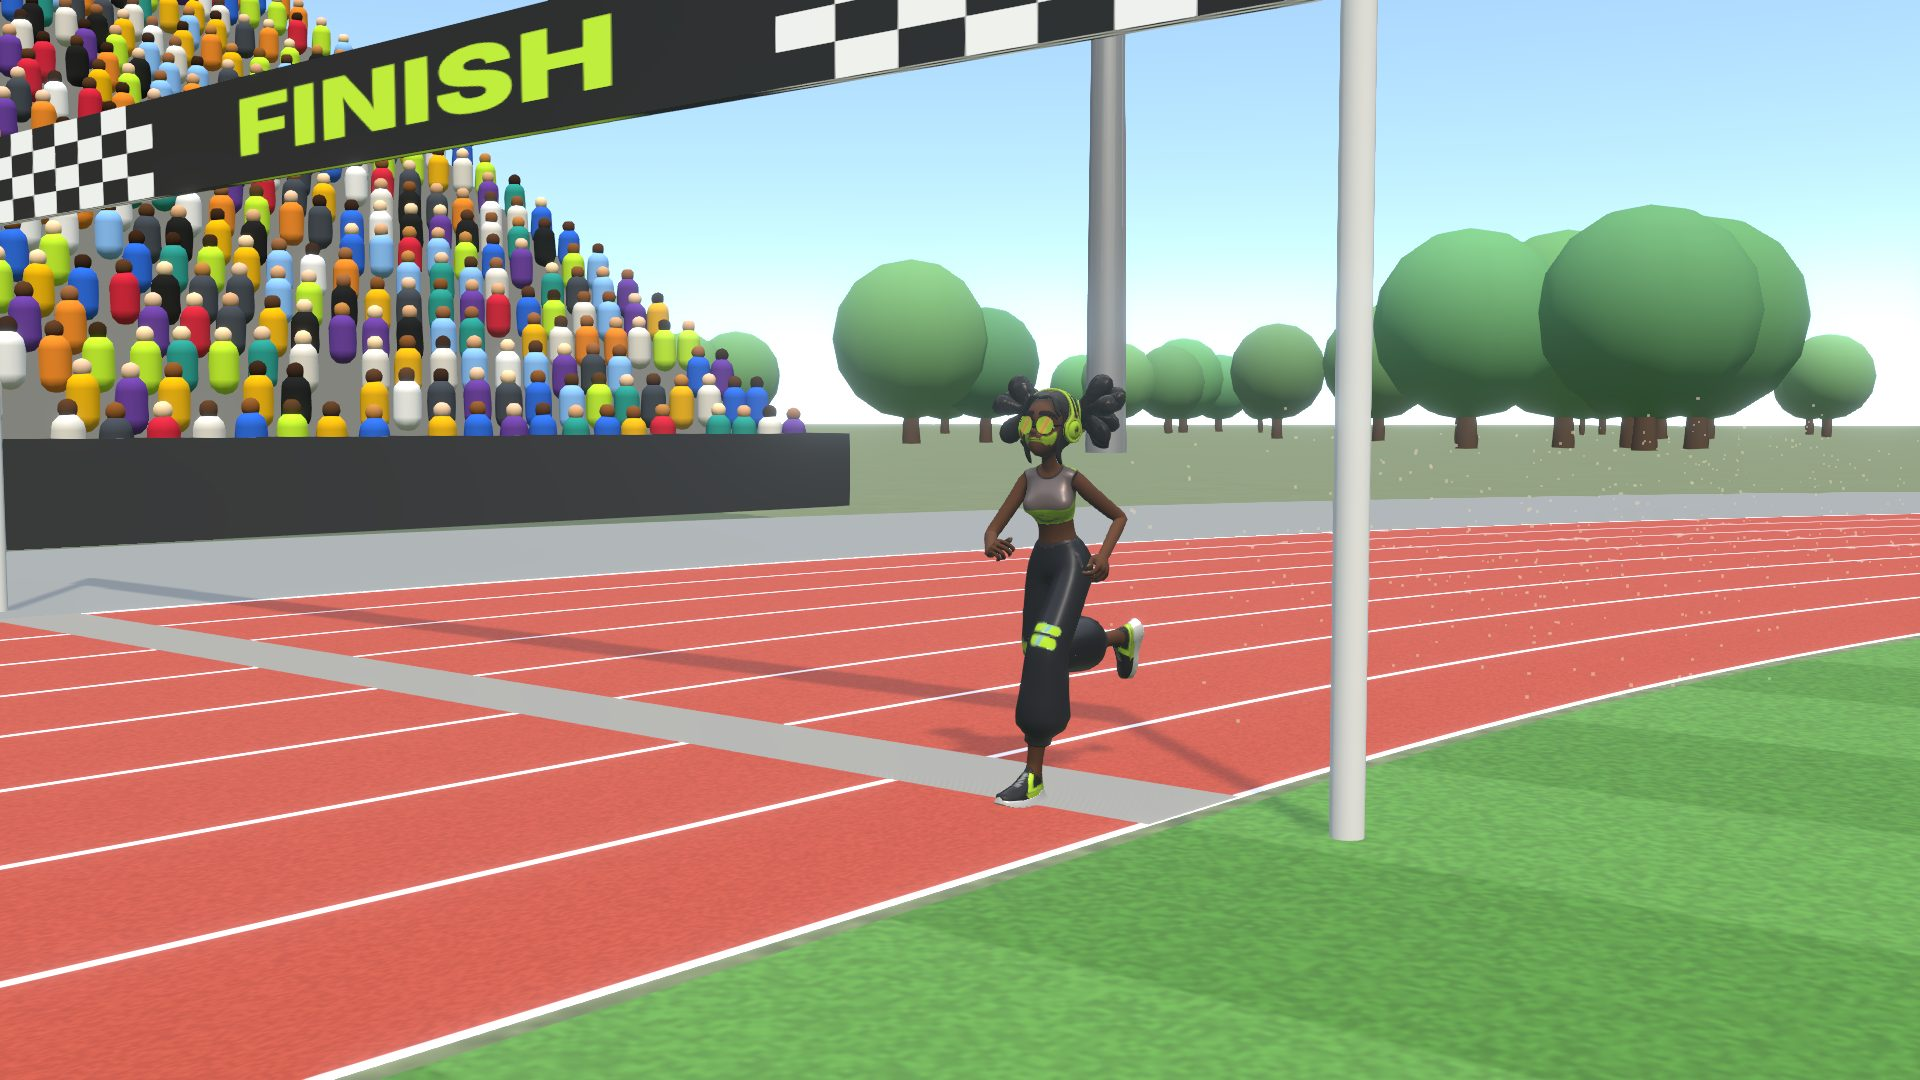
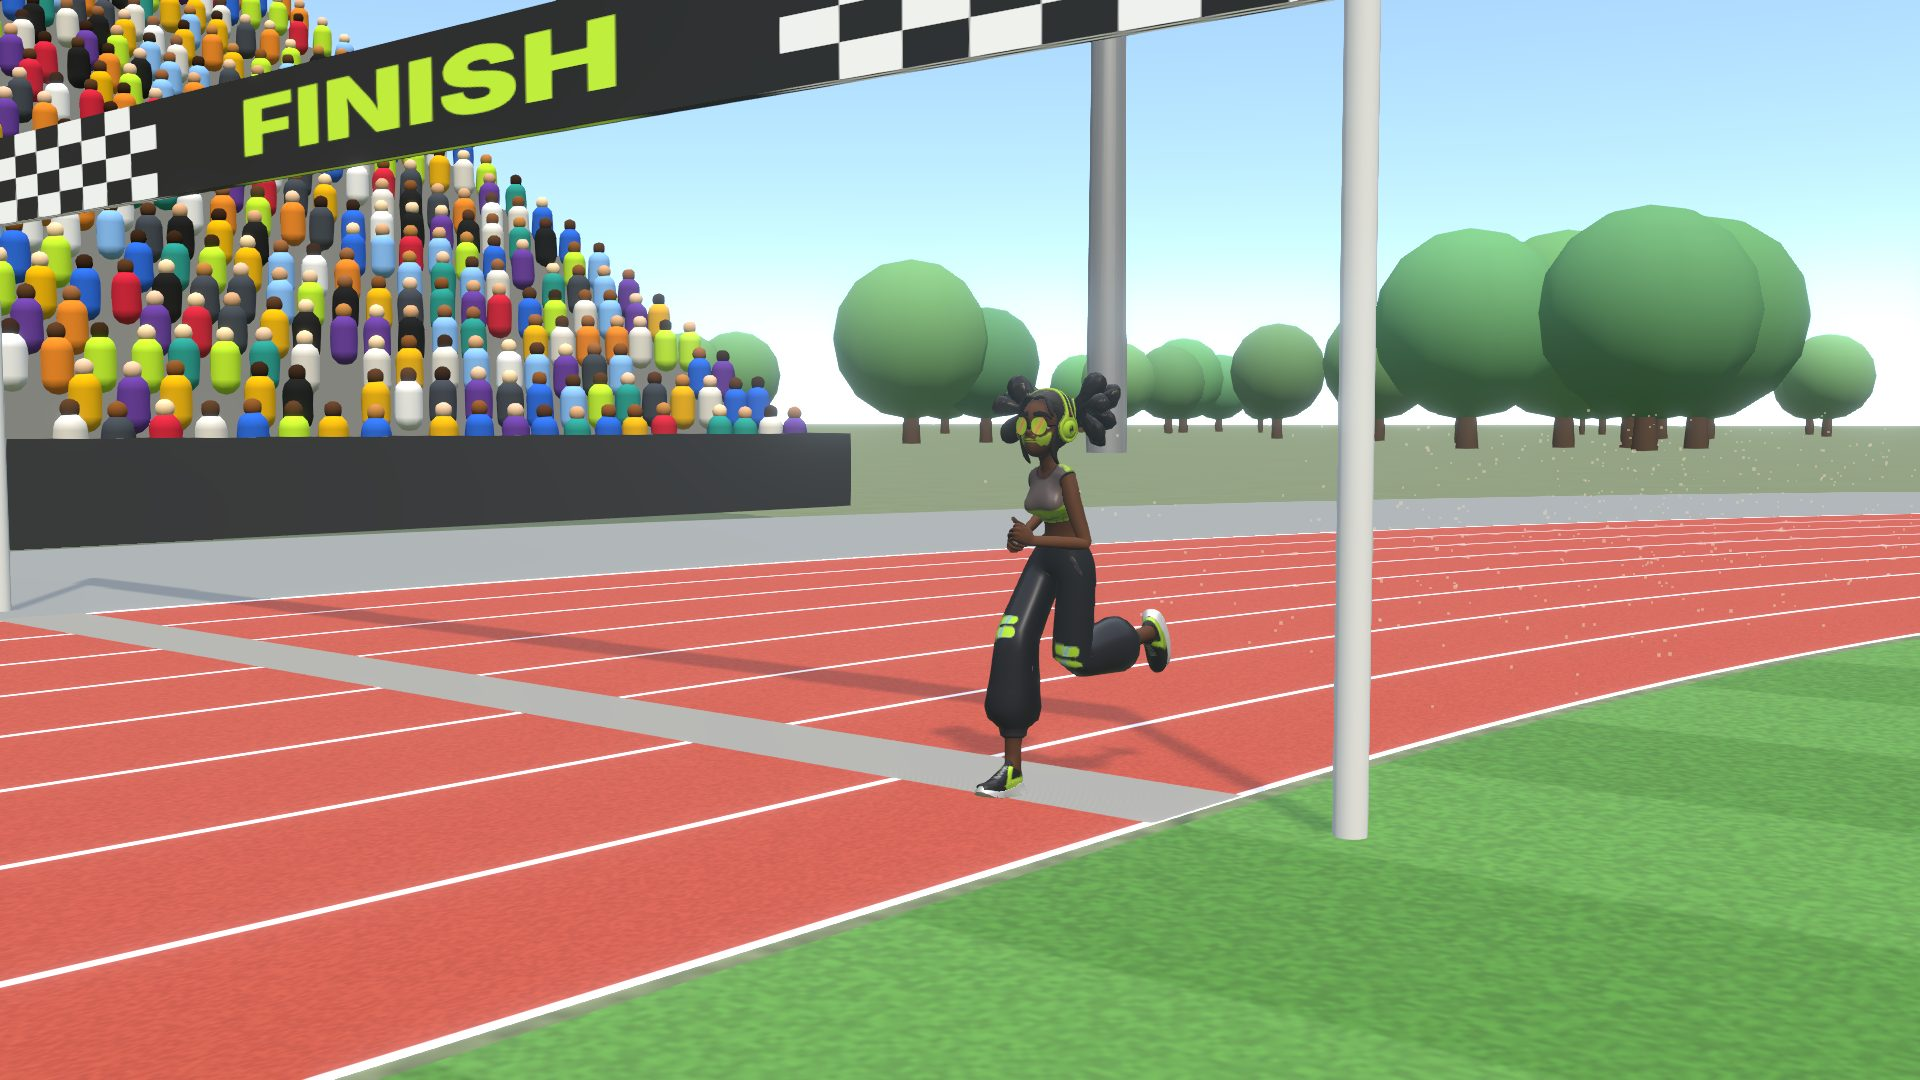
Run between slides at track level, widen the bone view, hold still for the X-ray
- Replace the satellite lift with a chase camera that pulls back a little
  while she runs to the next slide's marker.
- Pull the bone-view camera out so more of the trabecular network is in frame.
- Freeze her pose and position while the X-ray labels are on screen so the
  labels stay put; she runs again as the camera dives to the femoral neck.
- Regenerate fallback frames; update README.

Claude-Session: https://claude.ai/code/session_013wEus8odJJj21jAkR9Y85n

diff --git a/components/three/StoryCanvas.tsx b/components/three/StoryCanvas.tsx
@@ -21,7 +21,7 @@ const VIEWS = {
   front: { pos: V(-2.4, 1.3, 3.9), tgt: V(0, 0.95, 0) },
   chase: { pos: V(1.7, 2.1, -5.2), tgt: V(0, 1.0, 2.8) },
   finish: { pos: V(-4.0, 1.4, 4.8), tgt: V(0.3, 0.95, -0.3) },
-  satellite: { pos: V(0, 230, -0.4), tgt: V(0, 0, 0.3) },
+  wide: { pos: V(2.6, 2.9, -7.8), tgt: V(0, 1.0, 3.2) }, // pulled back while she runs between slides
 };
 const HAZE = new THREE.Color("#d3dbe6");
 const DARK = new THREE.Color("#141416");
@@ -33,7 +33,6 @@ function CameraRig() {
   const wasMicro = useRef(false);
   const a = useMemo(() => new THREE.Vector3(), []);
   const b = useMemo(() => new THREE.Vector3(), []);
-  const fwd = useMemo(() => new THREE.Vector3(), []);
 
   useFrame((_, dt) => {
     camera.layers.enable(1);
@@ -51,7 +50,7 @@ function CameraRig() {
       micro = s.micro;
       if (micro) {
         const ang = 0.6 + sp * 2.4;
-        const R = 6.4 - 0.7 * s.porosity;
+        const R = 7.8 - 0.6 * s.porosity;
         desired.pos.set(MICRO_ORIGIN.x + Math.cos(ang) * R, MICRO_ORIGIN.y + 0.7 + 0.5 * Math.sin(sp * 9), MICRO_ORIGIN.z + Math.sin(ang) * R);
         desired.tgt.copy(MICRO_ORIGIN);
       } else if (s.finish) {
@@ -78,32 +77,23 @@ function CameraRig() {
         desired.tgt.lerp(a, t2);
       }
     } else {
-      // trip: street → satellite → street (Google-Maps style), then the slide appears
+      // trip: the chase camera pulls back a little while she runs to the next slide's marker
       const q = st.q;
-      const rise = srange(q, 0.0, 0.32);
-      const fall = 1 - srange(q, 0.68, 1.0);
-      const alt = Math.min(rise, fall);
+      const out = srange(q, 0.0, 0.3);
+      const back = 1 - srange(q, 0.7, 1.0);
+      const e = Math.min(out, back);
       const last = st.trip >= SLIDE_COUNT;
       const k = last ? srange(q, 0.6, 0.96) : 0; // final slide lands on the finish-line view
       const street = { pos: a.copy(VIEWS.chase.pos).lerp(VIEWS.finish.pos, k), tgt: b.copy(VIEWS.chase.tgt).lerp(VIEWS.finish.tgt, k) };
-      const sat = VIEWS.satellite;
-      const e = alt * alt * (3 - 2 * alt);
-      const px = street.pos.x + (sat.pos.x - street.pos.x) * e;
-      const py = street.pos.y + (sat.pos.y - street.pos.y) * e;
-      const pz = street.pos.z + (sat.pos.z - street.pos.z) * e;
-      const tx = street.tgt.x + (sat.tgt.x - street.tgt.x) * e;
-      const ty = street.tgt.y + (sat.tgt.y - street.tgt.y) * e;
-      const tz = street.tgt.z + (sat.tgt.z - street.tgt.z) * e;
-      desired.pos.fromArray(relative(p, px, py, pz));
-      desired.tgt.fromArray(relative(p, tx, ty, tz));
-      fwd.set(p.fx, 0, p.fz);
-      desired.up.set(0, 1, 0).lerp(fwd, e).normalize();
+      const w = VIEWS.wide;
+      desired.pos.fromArray(relative(p, street.pos.x + (w.pos.x - street.pos.x) * e, street.pos.y + (w.pos.y - street.pos.y) * e, street.pos.z + (w.pos.z - street.pos.z) * e));
+      desired.tgt.fromArray(relative(p, street.tgt.x + (w.tgt.x - street.tgt.x) * e, street.tgt.y + (w.tgt.y - street.tgt.y) * e, street.tgt.z + (w.tgt.z - street.tgt.z) * e));
     }
 
     if (fog) {
       fog.color.copy(micro ? DARK : HAZE);
-      fog.near = micro ? 3.0 : 260;
-      fog.far = micro ? 10.5 : 1700;
+      fog.near = micro ? 4.0 : 260;
+      fog.far = micro ? 12.5 : 1700;
     }
     if (micro !== wasMicro.current) snap = true;
     wasMicro.current = micro;

diff --git a/components/three/Runner.tsx b/components/three/Runner.tsx
@@ -165,7 +165,13 @@ export default function Runner() {
     const s = storyState(st.mode === "story" ? st.storyP : 1);
     // where she is along the lap
     let d: number;
-    if (st.mode === "story") d = 34 + (STORY_END_D - 34) * srange(st.storyP, 0, 1);
+    // in the story she holds still while the X-ray is on, so the bone labels stay put
+    const sp = st.storyP;
+    const hold = srange(sp, 0.19, 0.23) * (1 - srange(sp, 0.4, 0.44));
+    if (st.mode === "story") {
+      const f = sp < 0.21 ? (sp / 0.21) * 0.38 : sp < 0.42 ? 0.38 : 0.38 + ((sp - 0.42) / 0.58) * 0.62;
+      d = 34 + (STORY_END_D - 34) * f;
+    }
     else d = markerD(st.trip - 1) + (markerD(st.trip) - markerD(st.trip - 1)) * smooth(range(st.q, 0.28, 0.72));
     const dd = Math.min(dt, 0.05);
     const speed = dd > 0 ? Math.min(Math.abs(d - lastD.current) / dd, 14) : 0;
@@ -191,7 +197,7 @@ export default function Runner() {
 
     // clip speed follows her ground speed (the mocap run is roughly 3.4 m/s)
     const timeScale = Math.max(0.85, Math.min(2.4, speed / 3.4 + (st.trip >= SLIDE_COUNT && st.mode === "trip" ? 0.3 : 0)));
-    mixer.update(dd * timeScale);
+    mixer.update(dd * timeScale * (st.mode === "story" ? 1 - hold : 1));
 
     // X-ray crossfade on the skinned body
     const x = st.mode !== "story" || s.finish ? 0 : s.xray;

diff --git a/README.md b/README.md
@@ -22,7 +22,7 @@ Pushing to `main` deploys to GitHub Pages through `.github/workflows/deploy.yml`
 
 * Every stop is a 1920×1080 stage, scaled to fit the window. Record at 1920×1080 for a 1:1 layout.
 * `→` `↓` `space` `enter` advance, `←` `↑` go back, `Home` / `End` jump. The 3D story has six beats; each slide is one stop.
-* Between slides the camera lifts to a satellite view of the stadium while she runs to the next marker on the oval, then dives back to track level and the slide rises over the scene. The final stop is the finish line.
+* Between slides she runs to the next marker on the oval with the chase camera pulling back a little, then the slide rises over the scene. The final stop is the finish line.
 * Press `P` for presentation mode: fullscreen, cursor hidden, navigation chrome hidden. `Esc` leaves it.
 * The top-right 600×400 px of every stop is kept empty for a webcam overlay. Open `/?qa=1` to see that zone outlined.
 * All text is 28 px or larger at 1920×1080.
